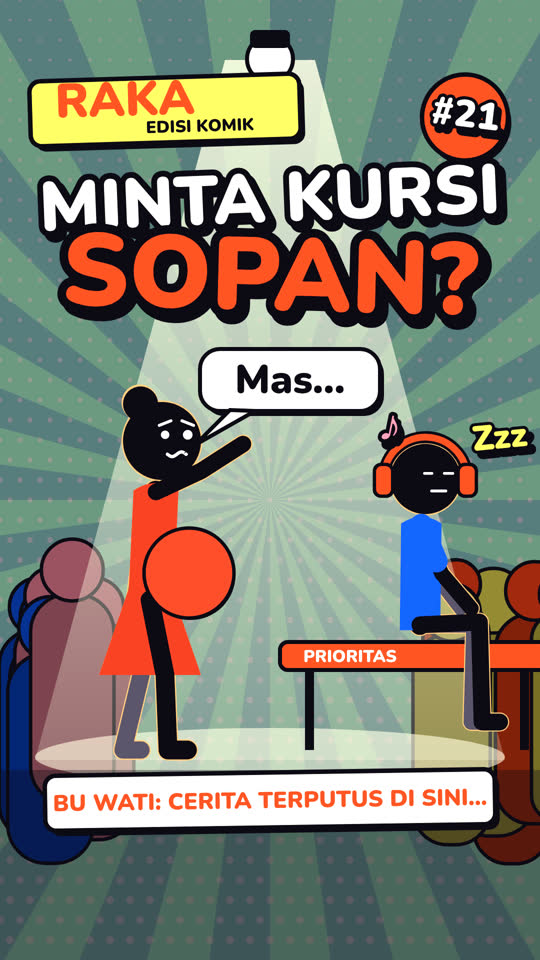
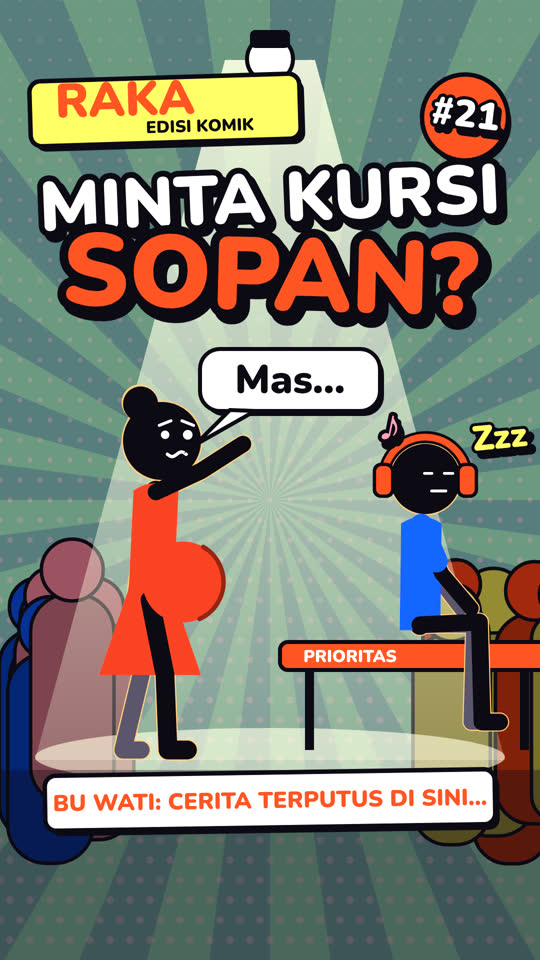
Cover #21: perut Bu Wati menyatu dengan gaun; helper belly diperbaiki
Claude-Session: https://claude.ai/code/session_0198S32E2UJJvXc8Zb9yF5Aq

Changed region(s): [[0.2667, 0.5312, 0.4444, 0.6562]]

diff --git a/studio/projects/kursi-prioritas-shorts/scenes/shots/01_kursi.js b/studio/projects/kursi-prioritas-shorts/scenes/shots/01_kursi.js
@@ -109,7 +109,7 @@ const phones = (g, hx, hy, s, col, down = false) => {
   g.lineWidth = 5 * s; g.strokeStyle = col; g.stroke();
   for (const dx of [-31, 31]) { rr(g, hx + dx * s - 8 * s, hy - 12 * s, 16 * s, 26 * s, 6 * s); g.fillStyle = INK; g.fill(); rr(g, hx + dx * s - 5.5 * s, hy - 9.5 * s, 11 * s, 21 * s, 4 * s); g.fillStyle = col; g.fill(); }
 };
-const belly = (g, x, y, s, f = 1) => { const bx = x + 26 * f * s, by = y - 118 * s; circle(g, bx + 3, by + 4, 30 * s, INK); circle(g, bx, by, 30 * s, '#e8553a'); g.lineWidth = 6; g.strokeStyle = INK; g.beginPath(); g.arc(bx, by, 30 * s, 0, 6.3); g.stroke(); };
+const belly = (g, x, y, s, f = 1) => { const bx = x + 22 * f * s, by = y - 112 * s, br = 27 * s; circle(g, bx, by, br, '#d64a33'); g.lineWidth = 7; g.lineCap = 'round'; g.strokeStyle = shade('#d64a33', -0.38); g.beginPath(); if (f > 0) g.arc(bx, by, br, -1.05, 1.15); else g.arc(bx, by, br, Math.PI - 1.15, Math.PI + 1.05); g.stroke(); };   // menyatu dengan gaun (bukan bola berkontur hitam)
 const note = (g, x, y, k, col) => { if (k <= 0) return; g.save(); g.translate(x, y); g.scale(k, k); g.font = `900 70px "${FONTS.ui}"`; g.textAlign = 'center'; g.textBaseline = 'middle'; g.fillStyle = INK; g.fillText('♪', 4, 5); g.fillStyle = col; g.fillText('♪', 0, 0); g.restore(); };
 const sweat = (g, x, y, k) => { if (k <= 0) return; g.save(); g.translate(x, y + 30 * (1 - k)); g.scale(k, k); poly(g, [[0, -34], [-16, 4], [16, 4]], '#7fd4ff'); circle(g, 0, 8, 16, '#7fd4ff'); g.lineWidth = 5; g.strokeStyle = INK; g.beginPath(); g.arc(0, 8, 16, 0, 6.3); g.stroke(); g.restore(); };
 const stamp = (g, str, x, y, size, col, rot, k) => { if (k <= 0) return; g.save(); g.translate(x, y); g.rotate(rot); g.scale(k, k); g.font = `900 ${size}px "${FONTS.ui}"`; const w = g.measureText(str).width + size * 0.8, h = size * 1.4; g.lineWidth = 12; g.strokeStyle = col; rr(g, -w / 2, -h / 2, w, h, 18); g.stroke(); g.textAlign = 'center'; g.textBaseline = 'middle'; g.fillStyle = col; g.fillText(str, 0, 3); g.restore(); };

diff --git a/studio/projects/kursi-prioritas-cover/scenes/shots/cover.js b/studio/projects/kursi-prioritas-cover/scenes/shots/cover.js
@@ -30,7 +30,7 @@ registerShot('c01', { draw(g) {
   // tokoh: Bu Wati (reach) dan cowok headphone (duduk, mata merem)
   const wx = 300, sp = POSES.sit, cx = 840;
   drawFigure(g, { x: wx, y: GYc, s: 3.0, facing: 1, outfit: { top: 'dress', color: '#d64a33', head: 'bun' }, pose: POSES.reach, expr: 'worried', rim: null, shadow: false });
-  const bx = wx + 26 * 3.0, by = GYc - 118 * 3.0; circle(g, bx + 3, by + 4, 30 * 3.0, INK); circle(g, bx, by, 30 * 3.0, '#e8553a'); g.lineWidth = 7; g.strokeStyle = INK; g.beginPath(); g.arc(bx, by, 30 * 3.0, 0, 6.3); g.stroke();
+  const bx = wx + 22 * 3.0, by = GYc - 112 * 3.0, br = 27 * 3.0; circle(g, bx, by, br, '#d64a33'); g.lineWidth = 9; g.lineCap = 'round'; g.strokeStyle = shade('#d64a33', -0.38); g.beginPath(); g.arc(bx, by, br, -1.05, 1.15); g.stroke();   // perut menyatu dengan gaun: warna sama, kontur hanya di sisi depan
   drawFigure(g, { x: cx, y: GYc - 56, s: 2.7, facing: 1, outfit: { top: 'tshirt', color: C.blue, head: 'none' }, pose: sp, expr: 'sleepy', rim: null, shadow: false });
   { const hx = cx + sp.head[0] * 2.7, hy = GYc - 56 + sp.head[1] * 2.7, s = 2.7; g.lineCap = 'round'; g.lineWidth = 9 * s; g.strokeStyle = INK; g.beginPath(); g.arc(hx, hy, 31 * s, Math.PI * 1.02, Math.PI * 1.98); g.stroke(); g.lineWidth = 5 * s; g.strokeStyle = C.hot; g.stroke();
     for (const dx of [-31, 31]) { rr(g, hx + dx * s - 8 * s, hy - 12 * s, 16 * s, 26 * s, 6 * s); g.fillStyle = INK; g.fill(); rr(g, hx + dx * s - 5.5 * s, hy - 9.5 * s, 11 * s, 21 * s, 4 * s); g.fillStyle = C.hot; g.fill(); } }
